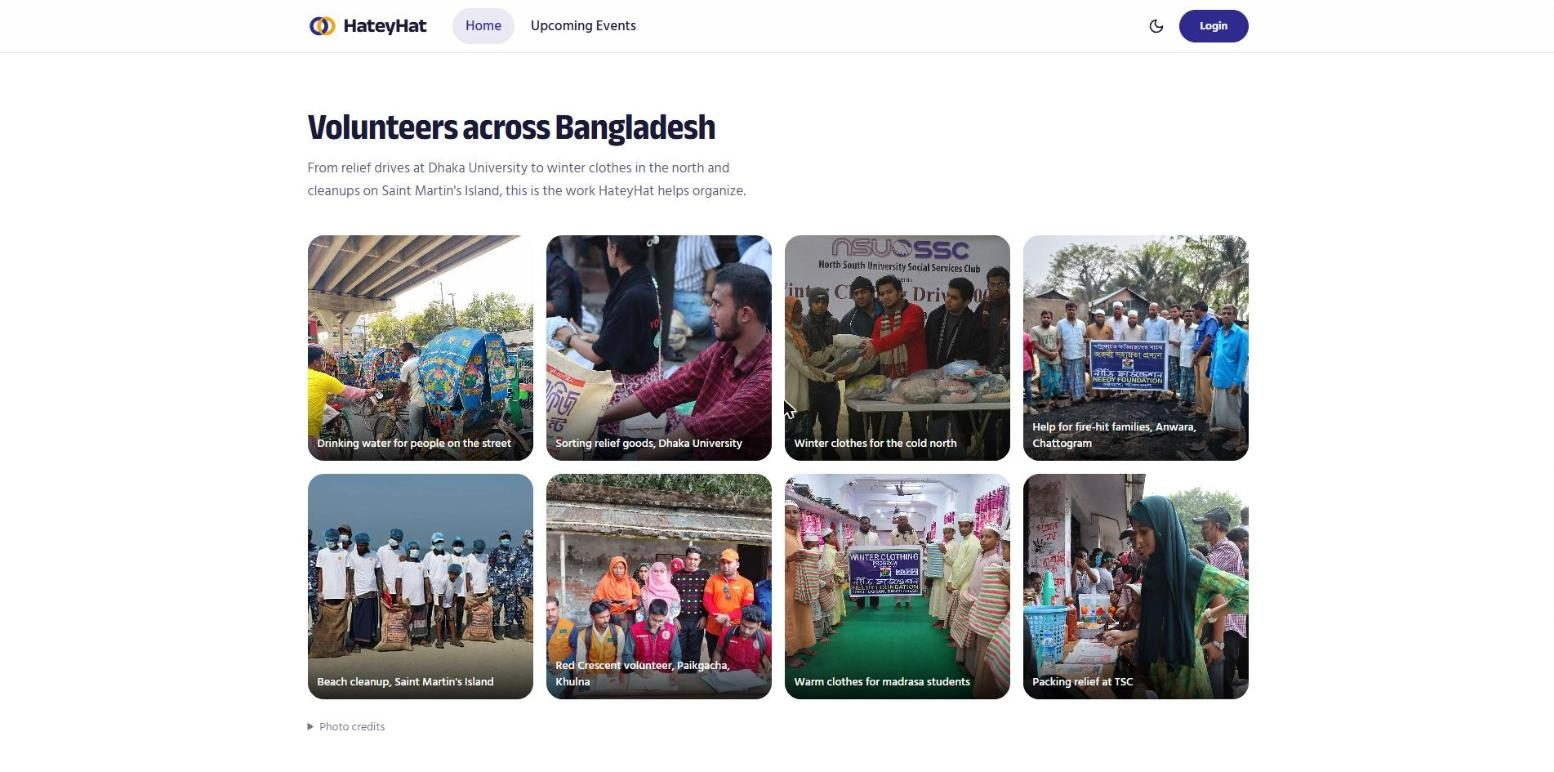
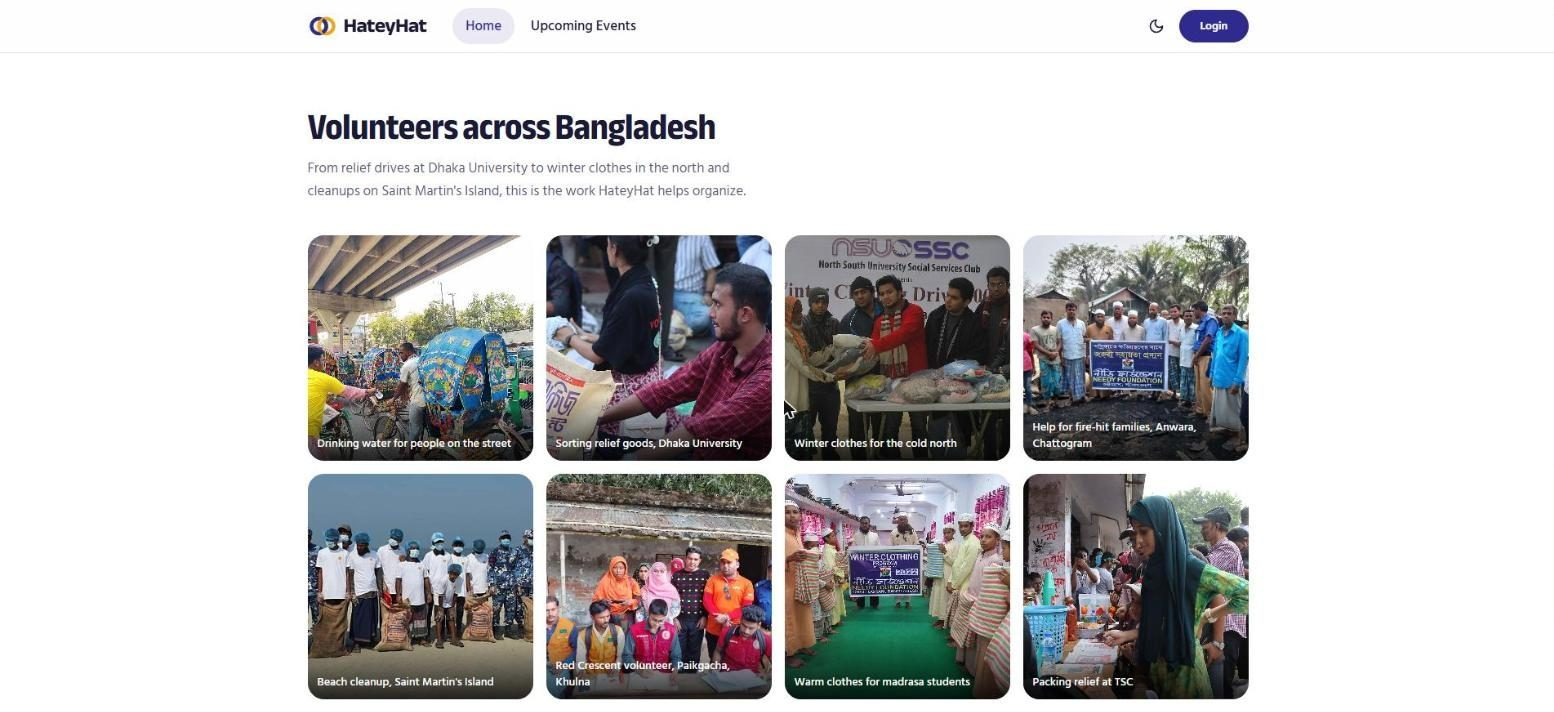
Updated README file

diff --git a/components/home/Gallery.js b/components/home/Gallery.js
@@ -1,5 +1,5 @@
 /* eslint-disable @next/next/no-img-element */
-import { galleryPhotos, photos } from "@/lib/photos";
+import { galleryPhotos } from "@/lib/photos";
 
 export default function Gallery() {
   return (
@@ -28,20 +28,6 @@ export default function Gallery() {
           </li>
         ))}
       </ul>
-      <details className="mt-6 text-sm text-base-content/60">
-        <summary className="cursor-pointer w-fit">Photo credits</summary>
-        <p className="mt-2">Photos of community work across the site, used under their open licences.</p>
-        <ul className="mt-2 space-y-1">
-          {Object.values(photos).map((photo) => (
-            <li key={photo.page}>
-              <a href={photo.page} target="_blank" rel="noopener noreferrer" className="link link-hover">
-                {photo.caption}
-              </a>{" "}
-              — {photo.credit}, {photo.license}, via Wikimedia Commons
-            </li>
-          ))}
-        </ul>
-      </details>
     </section>
   );
 }

diff --git a/README.md b/README.md
@@ -86,20 +86,6 @@ Cleanups in Mirpur, winter clothes for Mohammadpur, tree plantations, blood dona
 
 ## 🔐 How login and JWT work (simple version)
 
-```mermaid
-sequenceDiagram
-    participant U as Browser
-    participant N as Next.js (BetterAuth)
-    participant E as Express API
-    U->>N: Log in (email/password or Google)
-    N-->>U: Session cookie
-    U->>N: GET /api/auth/token
-    N-->>U: Short-lived JWT (1 hour)
-    U->>E: Request + "Authorization: Bearer <JWT>"
-    E->>N: Fetch public keys (/api/auth/jwks)
-    E-->>U: Data, or 401 if the token is missing/invalid
-```
-
 1. **BetterAuth** runs inside Next.js at `/api/auth/*`. It stores users and sessions in MongoDB.
 2. When a page needs private data, `lib/api.js` asks BetterAuth for a **JWT** that contains the user's email.
 3. The JWT is sent to the Express server, which **verifies the signature** with BetterAuth's public keys. No shared password is needed between the two apps.
@@ -185,9 +171,5 @@ Then publish the app under **Audience** so any Google account can log in.
 4. In MongoDB Atlas → Network Access, allow `0.0.0.0/0` so Vercel can connect.
 
 ---
-
-## 🙏 Credits
-
-Photos of community work in Bangladesh are from [Wikimedia Commons](https://commons.wikimedia.org) contributors, used under their open licences. Full credits are on the home page under **Photo credits**.
 
 Built by **[Sheikh Sazzaduzzaman](https://github.com/ssheikhs)**.
